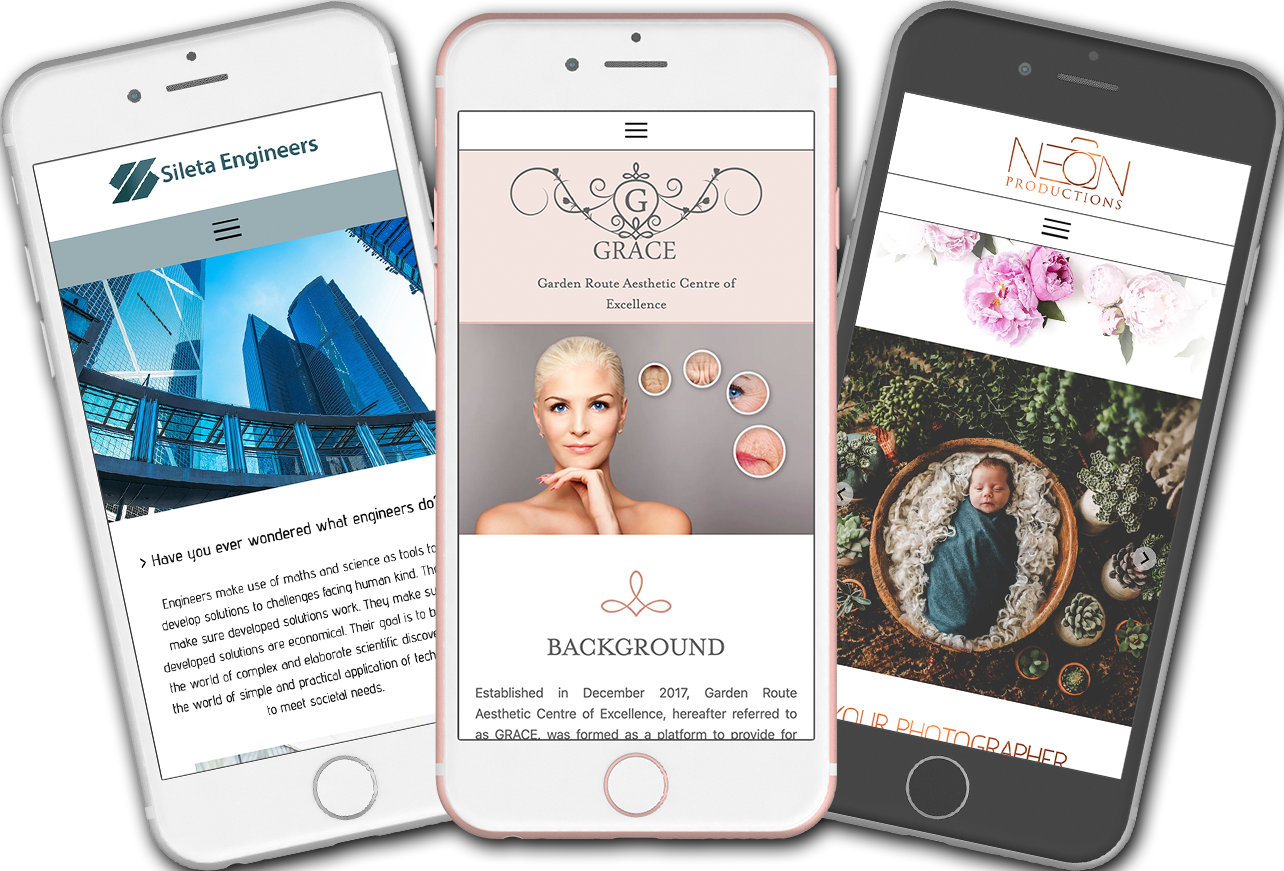
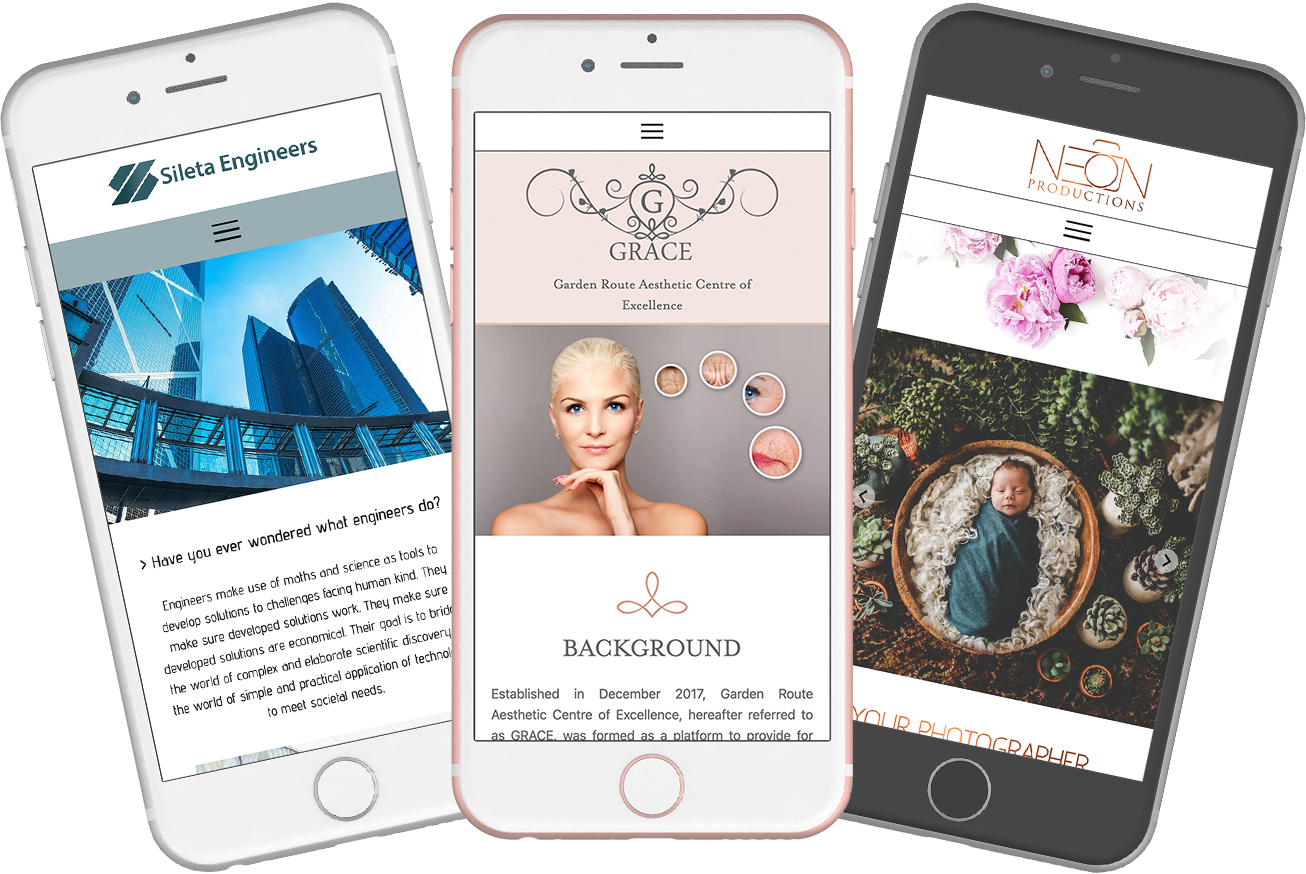
fix: adjust minor spacing issues & remove shadow

diff --git a/components/home/hero-slides/hero-slide-2.tsx b/components/home/hero-slides/hero-slide-2.tsx
@@ -28,7 +28,7 @@ const HeroSlide1 = ({ cssClasses }: Props) => {
           alt={image.alt}
           width={550}
           height={700}
-          className="h-auto w-[375px] justify-self-center self-center phoneLarge:w-[450px] tablet:w-[525px]"
+          className="h-auto w-[375px] justify-self-center self-center drop-shadow-md phoneLarge:w-[450px] tablet:w-[525px]"
           quality={50}
         ></Image>
         <ul className="list-disc text-subheading font-quicksand text-center list-inside self-center">

diff --git a/components/home/hero-slides/hero-slide-1.tsx b/components/home/hero-slides/hero-slide-1.tsx
@@ -27,7 +27,7 @@ const HeroSlide1 = ({ cssClasses }: Props) => {
           alt={image.alt}
           width={650}
           height={500}
-          className="h-auto w-[400px] -translate-x-[20px] justify-self-center self-center phoneLarge:w-[550px] tablet:w-[650px]"
+          className="h-auto w-[400px] -translate-x-[10px] tablet2:-translate-x-0 justify-self-center self-center phoneLarge:w-[550px] tablet:w-[650px]"
           priority
           quality={50}
         ></Image>

diff --git a/pages/index.tsx b/pages/index.tsx
@@ -8,7 +8,7 @@ export default function Home() {
     <>
       <HeroComponent />
       <div id="whyus" className=" -translate-y-[5.5rem]"></div>
-      <WhyUs cssClasses="mb-20 tablet:mb-16 tablet2:my-12" />
+      <WhyUs cssClasses="mb-20 mt-16 tablet:mt-0 tablet:mb-16 tablet2:my-12" />
       <div id="about" className=" -translate-y-32"></div>
       <About />
       <div id="contact" className=" -translate-y-16"></div>
